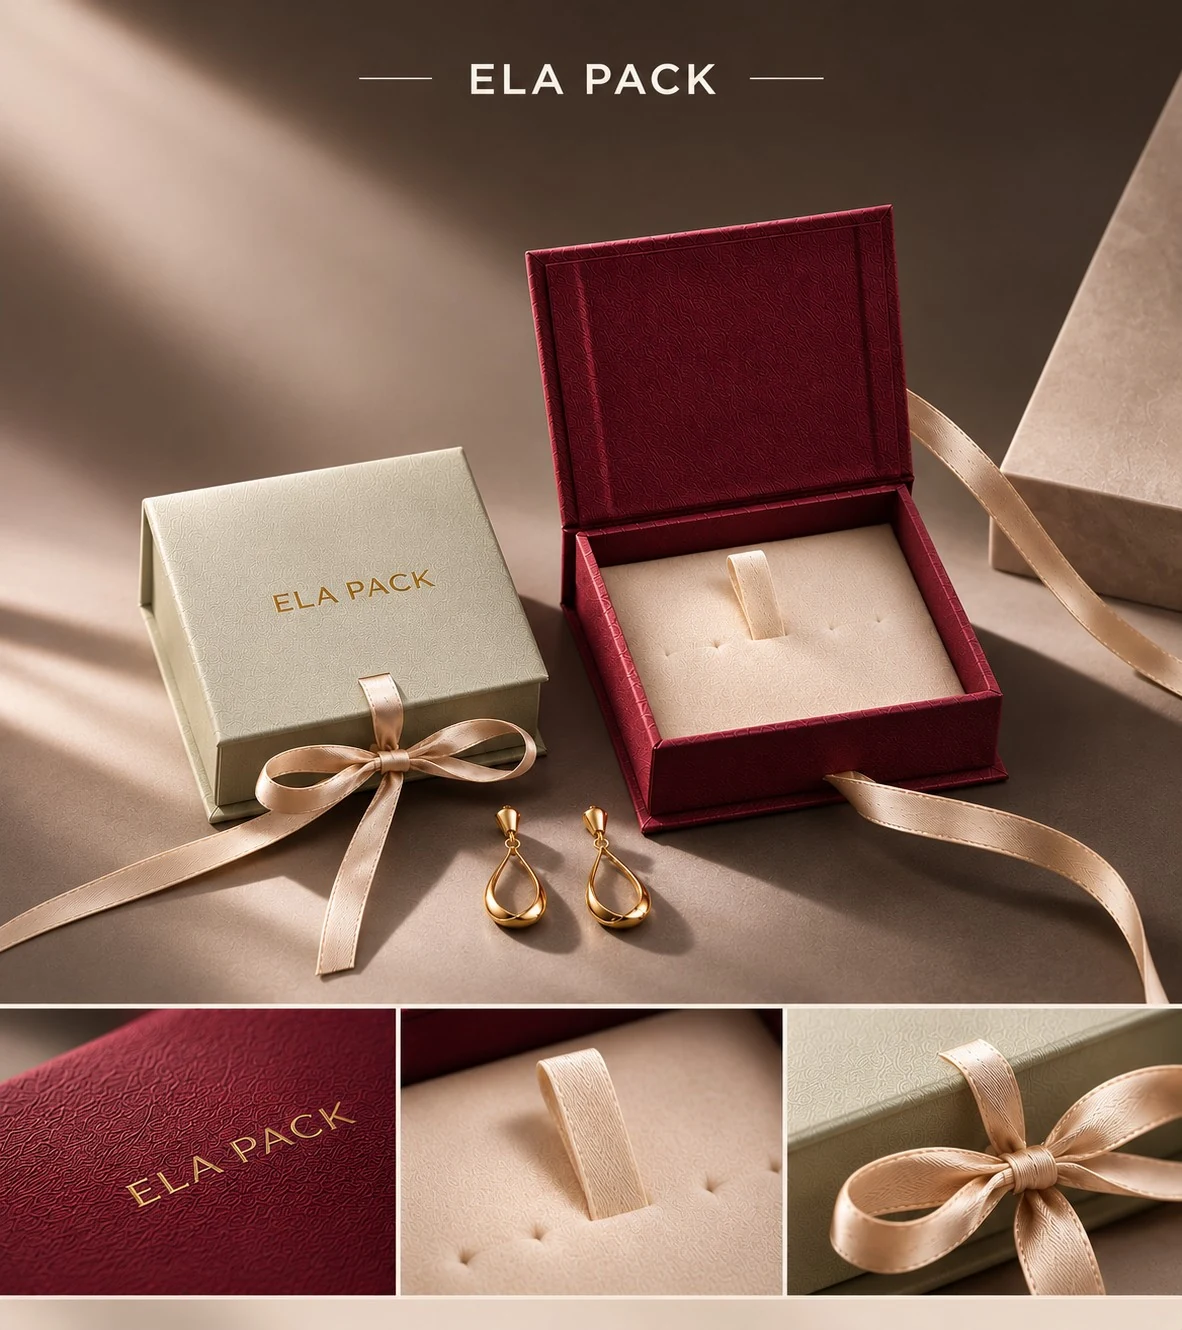
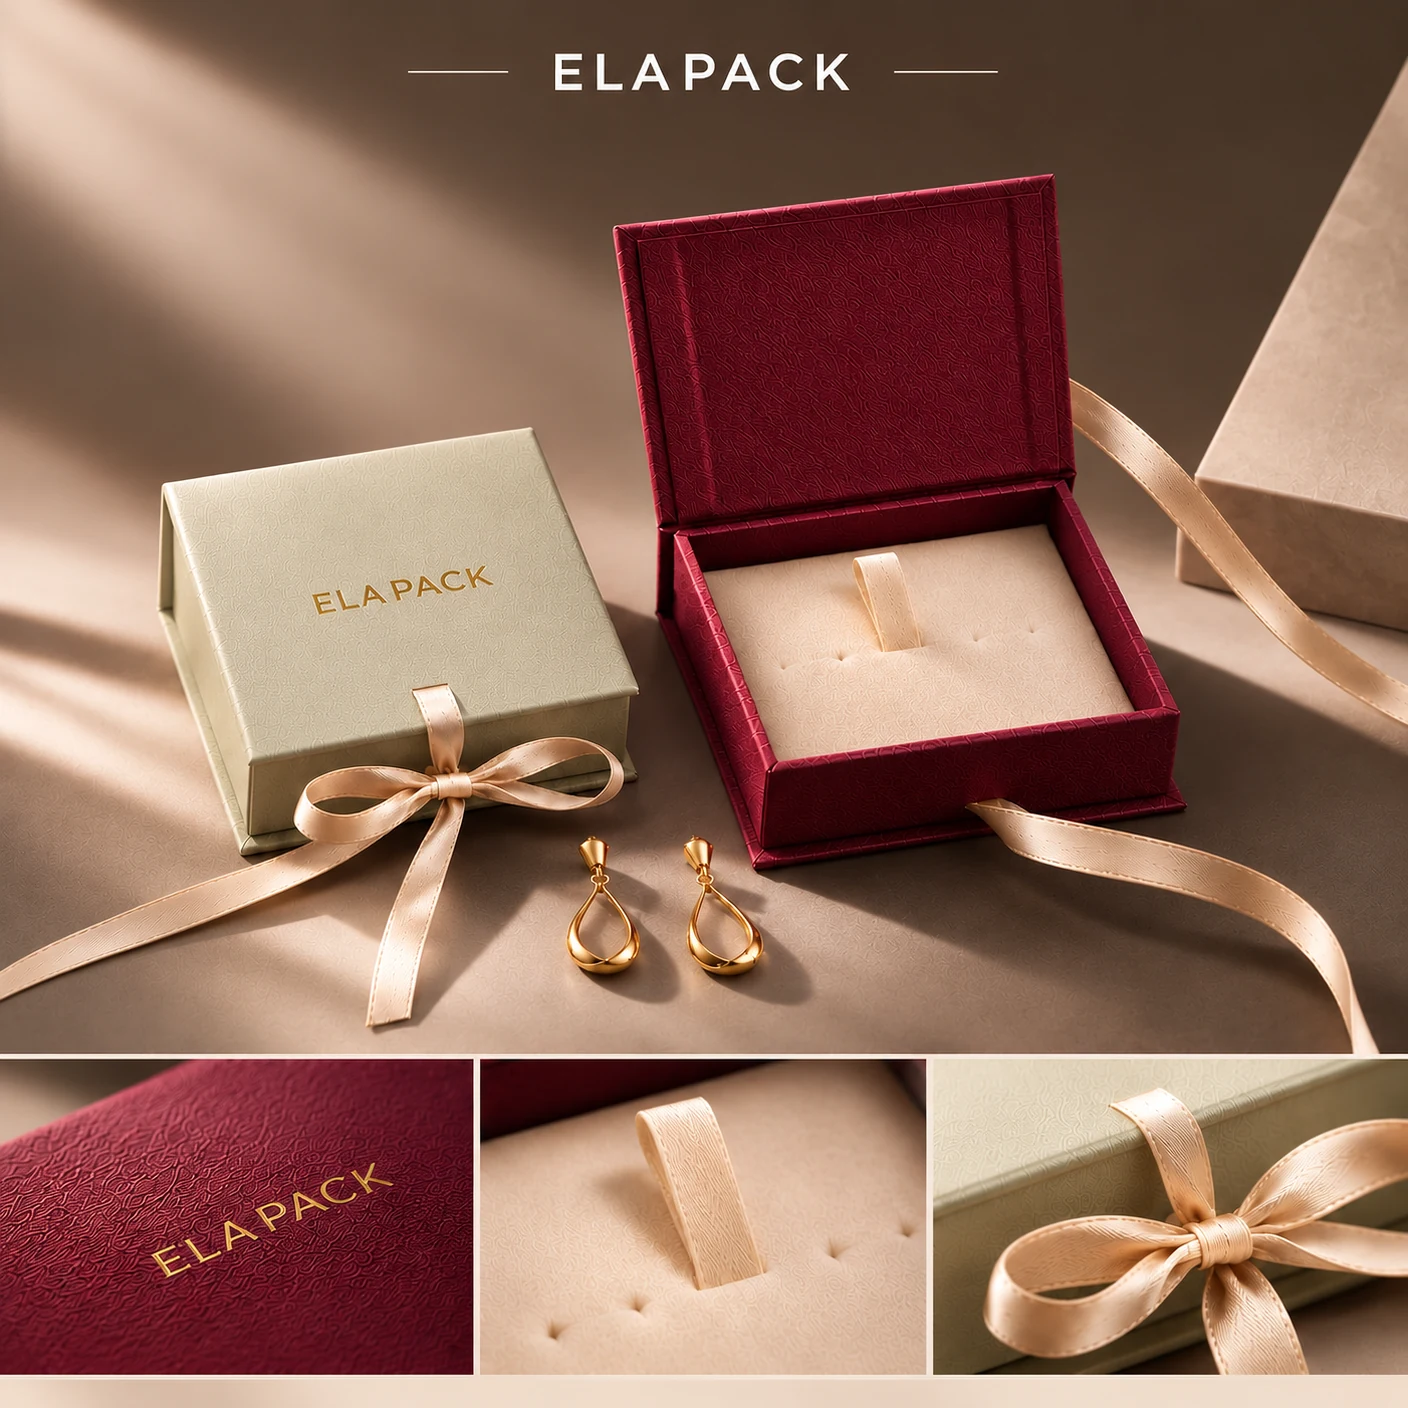
fix: close up ELAPACK wordmark in ribbon gift box detail image

diff --git a/src/data/products.ts b/src/data/products.ts
@@ -317,7 +317,7 @@ export const products: Product[] = [
       "/images/products/luxury-gift-box-ribbon/luxury-gift-box-ribbon-description.webp",
     customizeImage:
       "/images/products/luxury-gift-box-ribbon/luxury-gift-box-ribbon-customize.webp",
-    descriptionImageRatio: "1182 / 1330",
+    descriptionImageRatio: "1 / 1",
     customizeImageRatio: "1 / 1",
     materials: "Rigid cardboard, satin ribbon",
     moq: "200 pcs",
